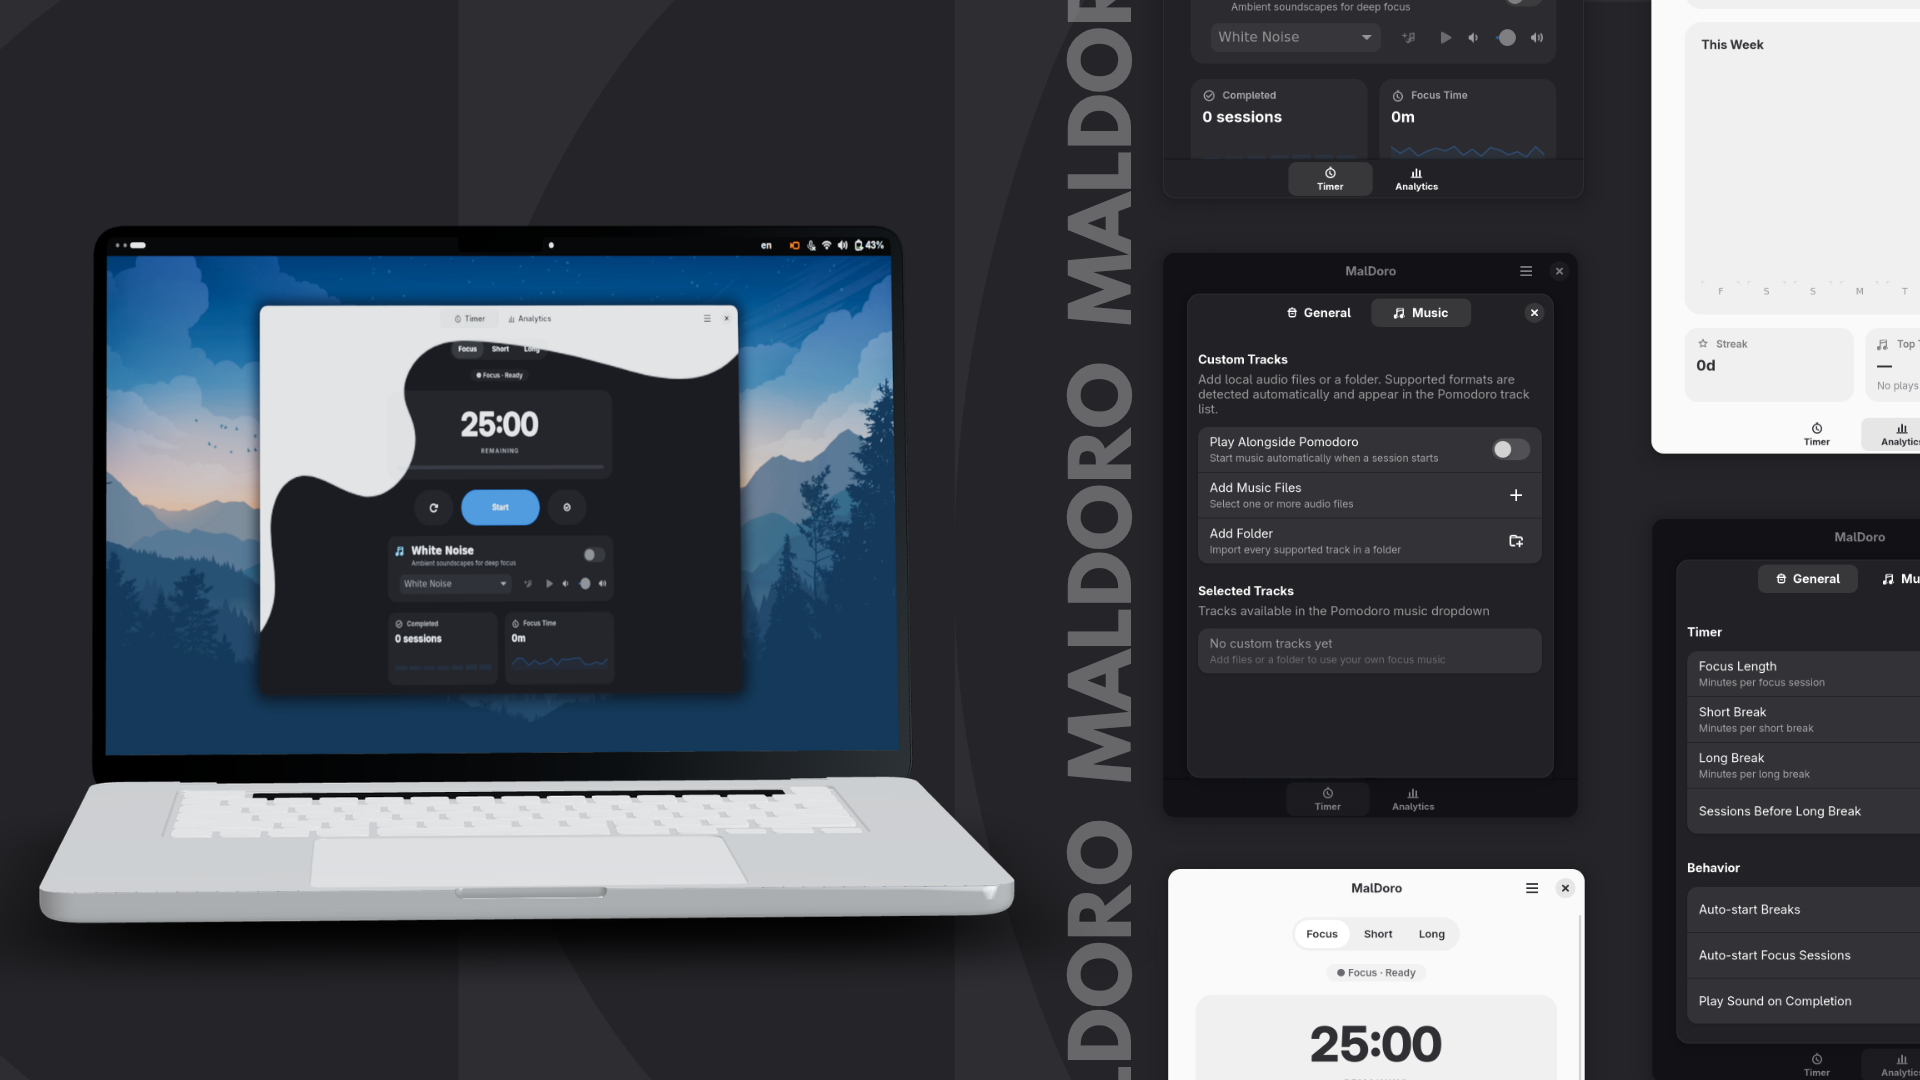
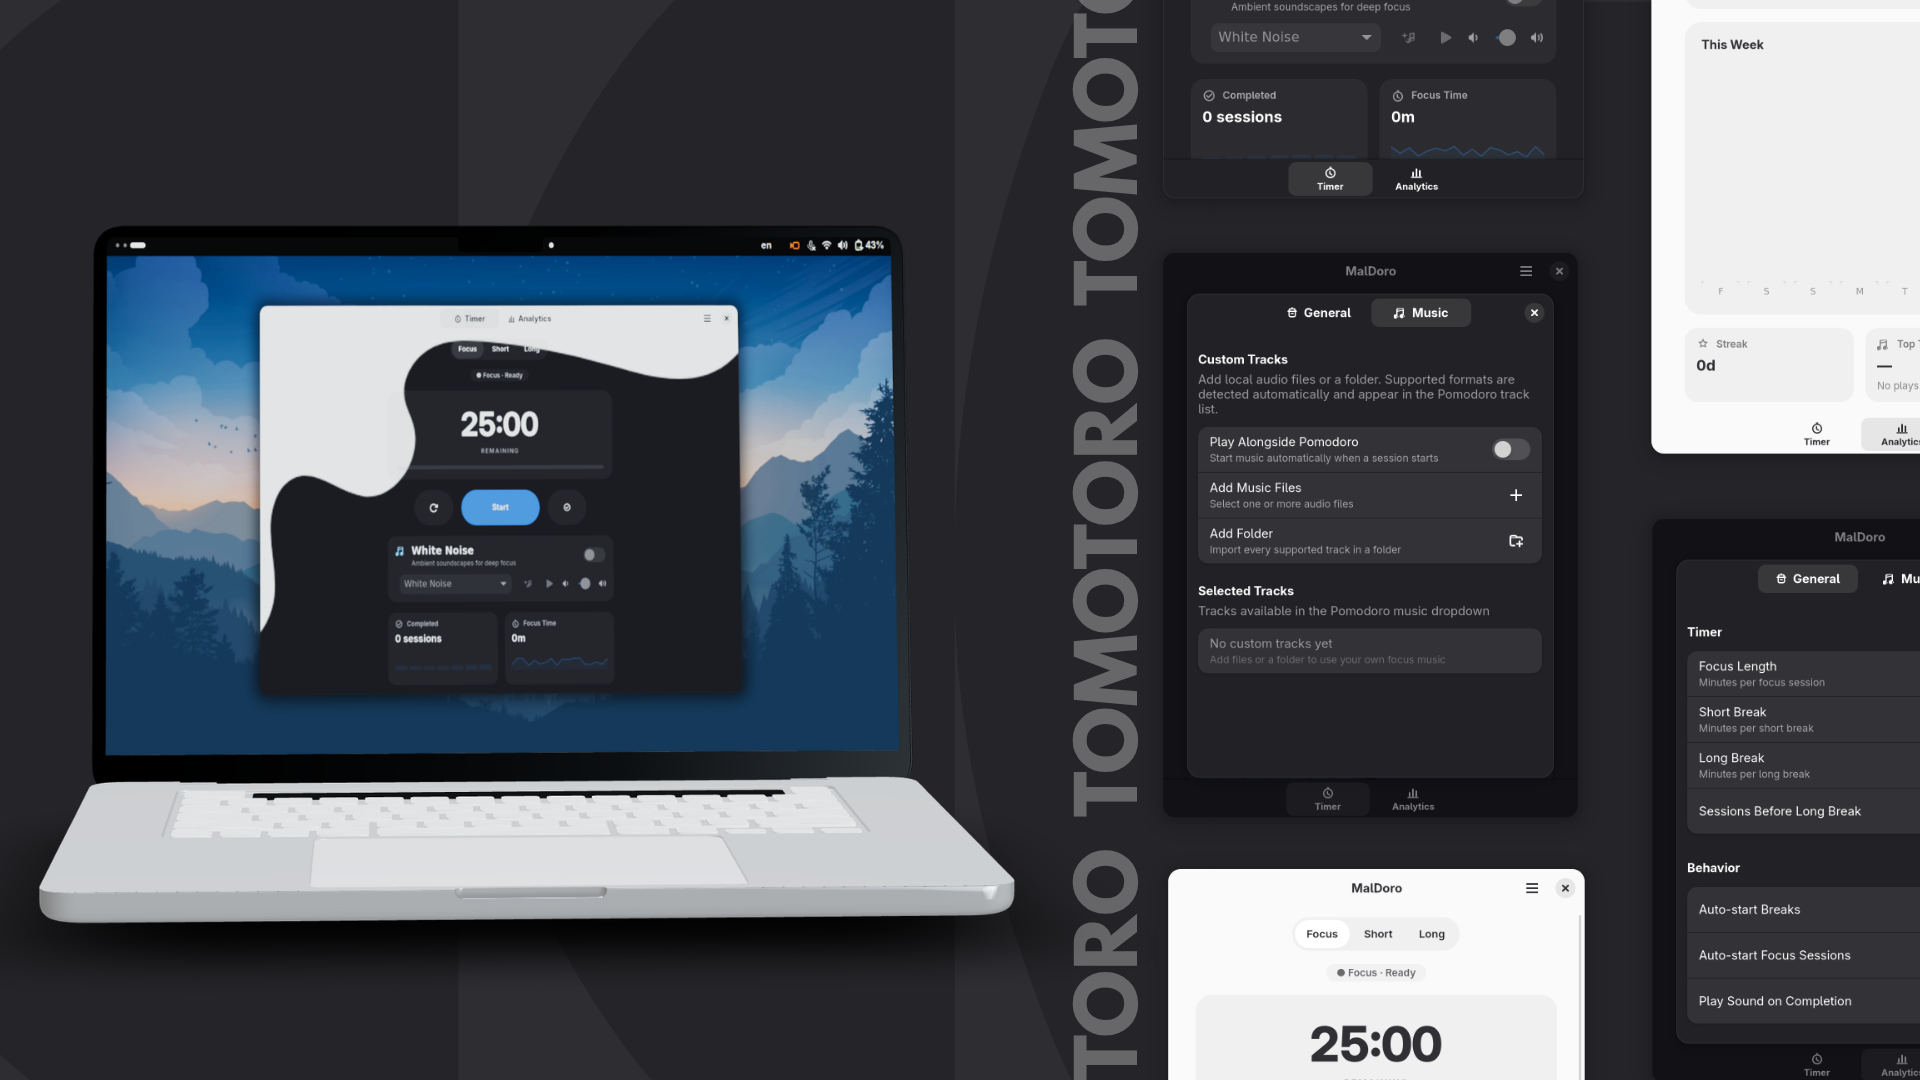
feat: update image and licence link

Changed region(s): [[0.5312, 0.0, 0.5938, 1.0]]

diff --git a/README.md b/README.md
@@ -8,7 +8,7 @@
   <img src="docs/image/Image-01.png" alt="Tomotoro Pomodoro Preview" width="100%">
 </p>
 
-[![License](https://img.shields.io/gitlab/license/malvin555/tomotoro?style=flat-square)](LICENSE)
+[![License](https://img.shields.io/gitlab/license/malvin555/maldoro?style=flat-square)](LICENSE)
 
 </div>
 
